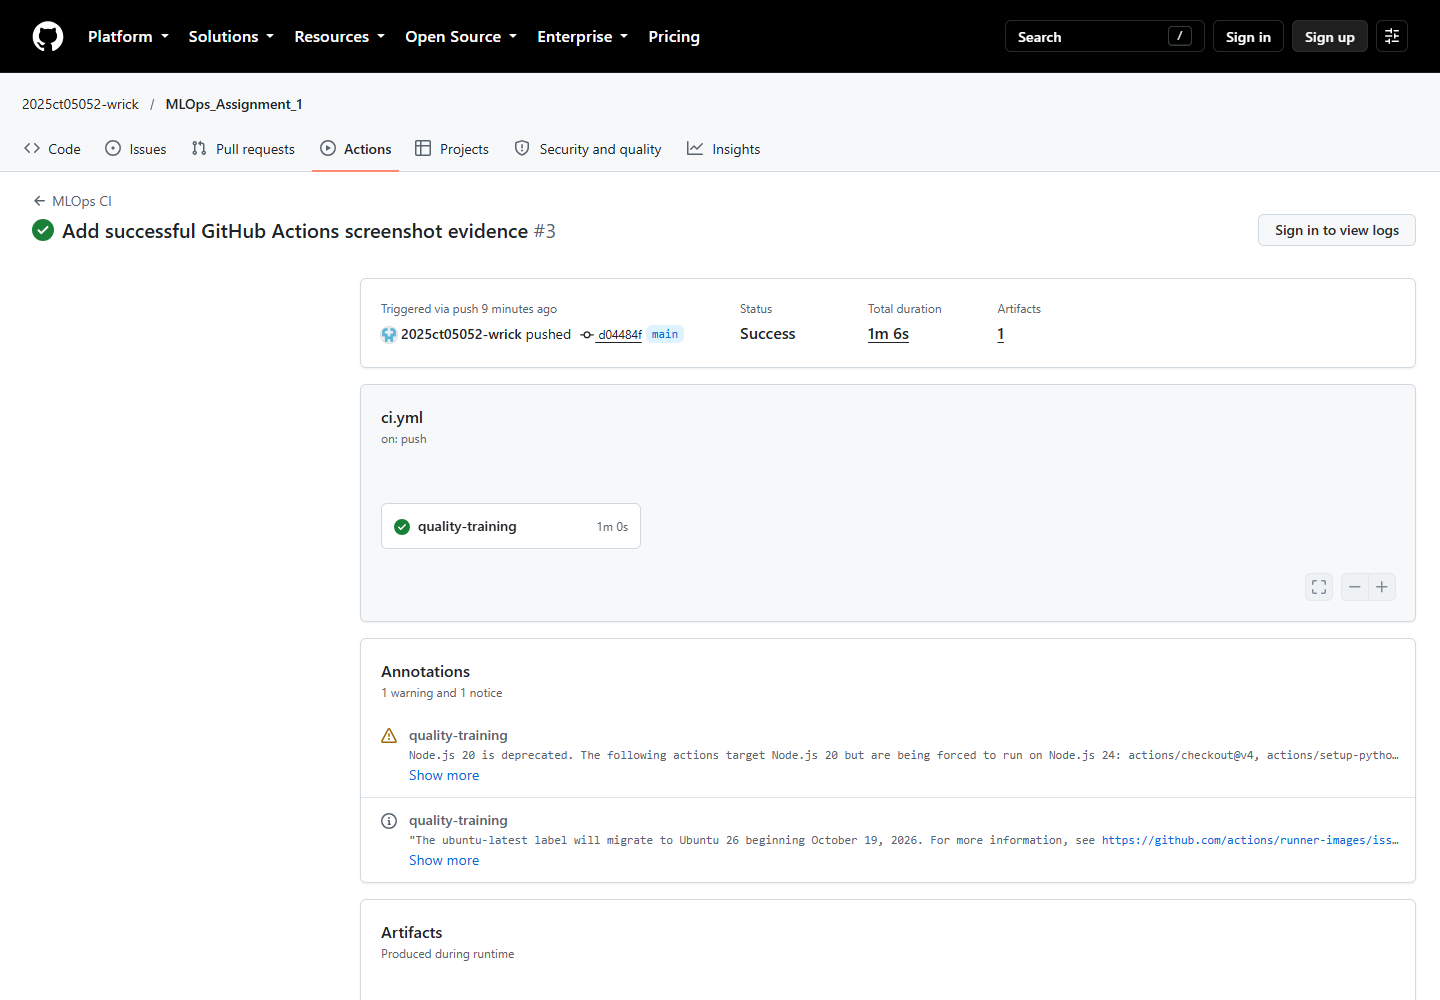
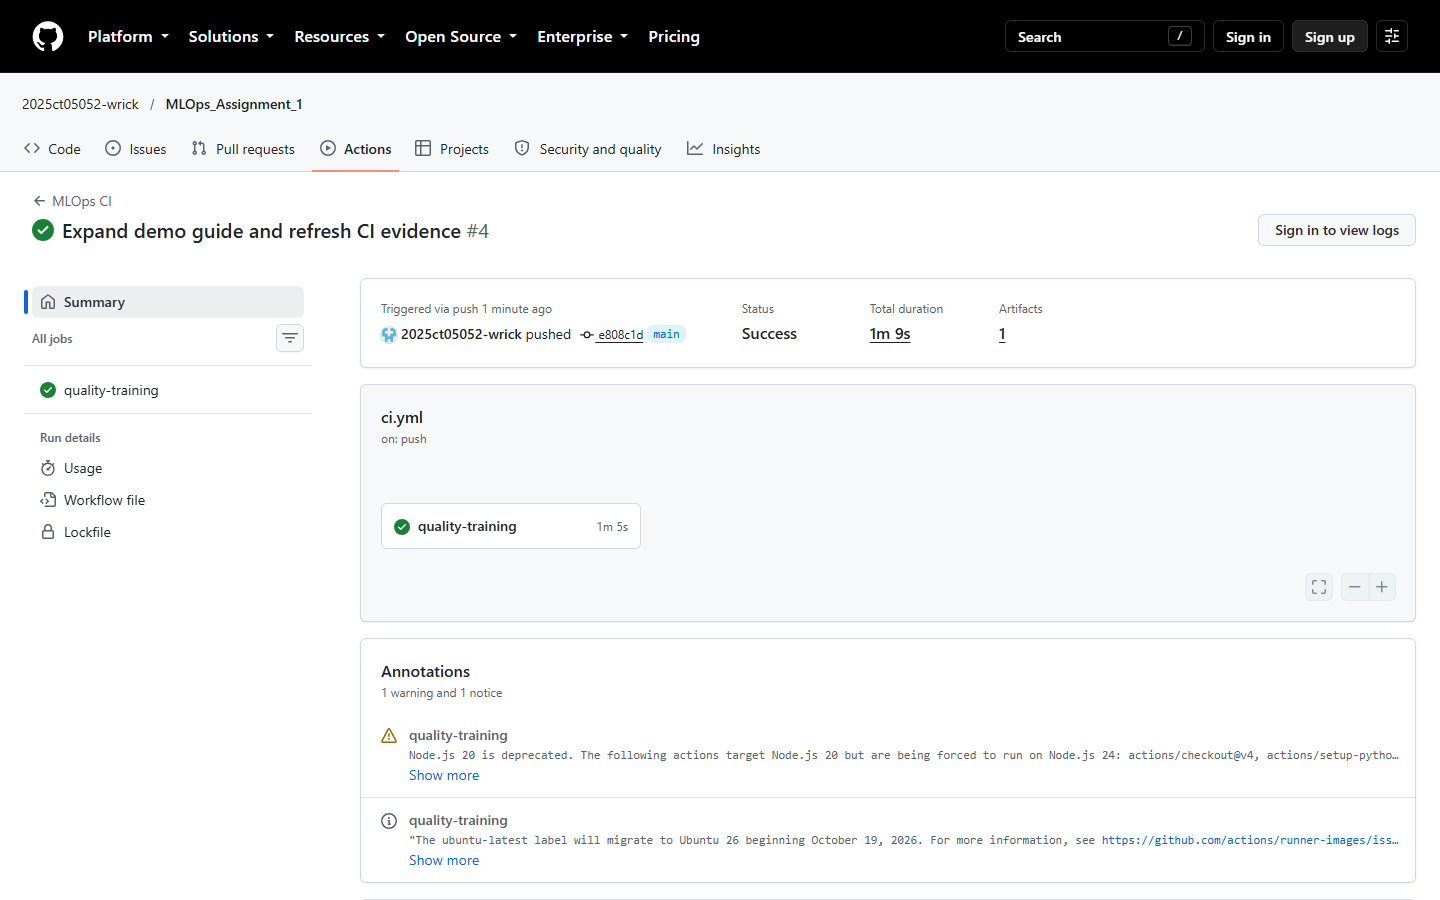
Refresh CI proof to latest successful run

diff --git a/docs/screenshots/README.md b/docs/screenshots/README.md
@@ -6,6 +6,6 @@ The runtime screenshots were captured from the local Docker Desktop demo:
 - `grafana-heart-disease-dashboard.png` — provisioned dashboard with observed API metrics.
 - `kubernetes-verification.png` — two ready API pods and successful `/health`, `/predict`,
   and `/metrics` checks through `kubectl port-forward`.
-- `github-actions-ci-passed.png` — Playwright capture of GitHub Actions run #3 for commit
-  `d04484f`; the workflow and `quality-training` job completed successfully.
+- `github-actions-ci-passed.png` — Playwright capture of GitHub Actions run #4 for commit
+  `e808c1d`; the workflow and `quality-training` job completed successfully.
 
